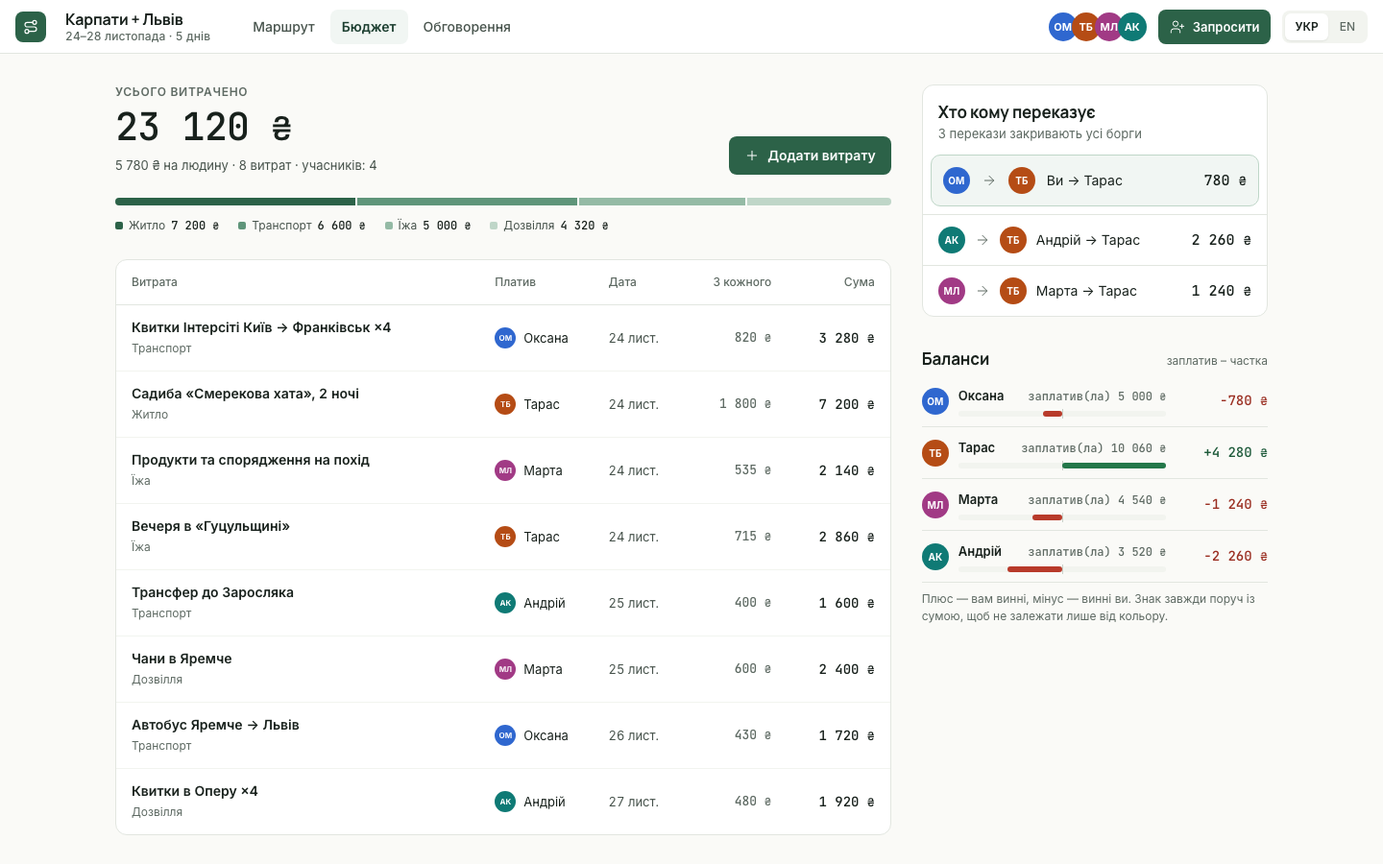
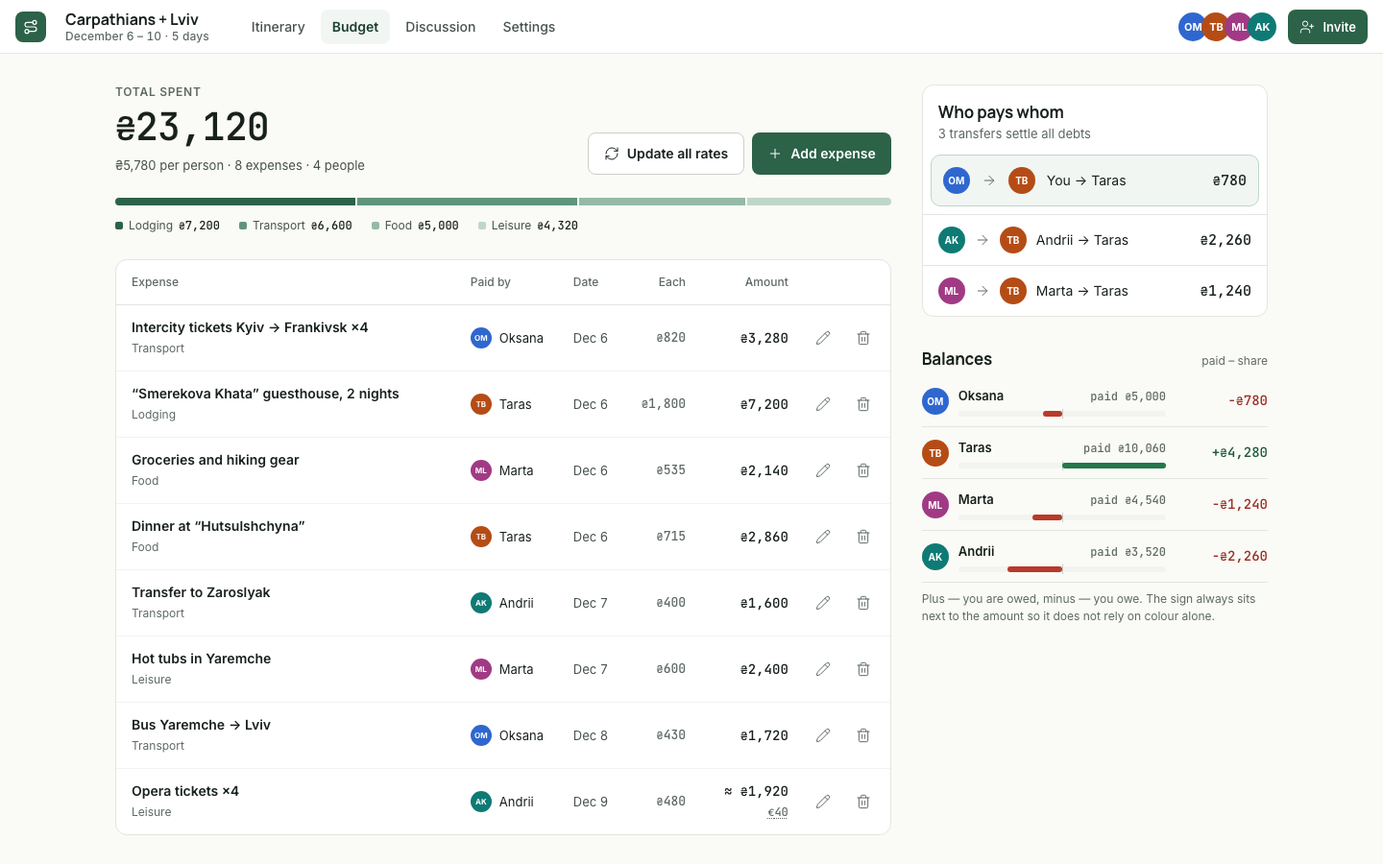
Refresh README and retake screenshots in English
Add a --lang en variant of the demo seed ("Carpathians + Lviv", one
expense paid in euros) and switch the screenshot spec to the /en routes.
README now covers multi-currency, trip settings, covers, the landing
page and the new decisions; screenshots are regenerated.

diff --git a/packages/db/prisma/seed.ts b/packages/db/prisma/seed.ts
@@ -4,70 +4,82 @@
 //   pnpm db:seed                          demo people only
 //   SEED_OWNER_EMAIL=you@gmail.com pnpm db:seed   you own the demo trip (sign in with Google once first)
 //   pnpm db:seed -- --reset               delete the demo trip and create it again
+//   pnpm db:seed -- --reset --lang en     same trip with English content ("Carpathians + Lviv")
 import { addItem, readDays, syncDays } from "@triptogether/doc";
 import { splitEqual } from "@triptogether/shared";
 import * as Y from "yjs";
 import { createPrisma } from "../src/index.js";
 
 const prisma = createPrisma();
-const TITLE = "Карпати + Львів";
+const langArg = process.argv.indexOf("--lang");
+const EN = process.argv.includes("--lang=en") || (langArg >= 0 && process.argv[langArg + 1] === "en");
+const LANG = EN ? "en" : "uk";
+// Pick the Ukrainian or English text; amounts, times and coordinates are shared so the numbers match DESIGN §7.8.
+const t = (uk: string, en: string) => (EN ? en : uk);
+const TITLES = ["Карпати + Львів", "Carpathians + Lviv"];
+const TITLE = t(TITLES[0]!, TITLES[1]!);
 const DAY = 86_400_000;
 const iso = (t: number) => new Date(t).toISOString().slice(0, 10);
 
 const demo = [
-  { googleId: "seed-oksana", name: "Оксана Мельник", email: "oksana.melnyk@gmail.com", role: "OWNER" },
-  { googleId: "seed-taras", name: "Тарас Бойко", email: "taras.boiko@gmail.com", role: "EDITOR" },
-  { googleId: "seed-marta", name: "Марта Левицька", email: "marta.levytska@gmail.com", role: "EDITOR" },
-  { googleId: "seed-andrii", name: "Андрій Ковальчук", email: "andrii.kovalchuk@gmail.com", role: "VIEWER" },
+  { googleId: "seed-oksana", name: t("Оксана Мельник", "Oksana Melnyk"), email: "oksana.melnyk@gmail.com", role: "OWNER" },
+  { googleId: "seed-taras", name: t("Тарас Бойко", "Taras Boiko"), email: "taras.boiko@gmail.com", role: "EDITOR" },
+  { googleId: "seed-marta", name: t("Марта Левицька", "Marta Levytska"), email: "marta.levytska@gmail.com", role: "EDITOR" },
+  { googleId: "seed-andrii", name: t("Андрій Ковальчук", "Andrii Kovalchuk"), email: "andrii.kovalchuk@gmail.com", role: "VIEWER" },
 ] as const;
 
 // Real coordinates, so the map has something to show.
 const PLACES: Record<string, { name: string; address: string; lat: number; lng: number }> = {
-  kyiv: { name: "Київ-Пасажирський", address: "Київ", lat: 50.4408, lng: 30.4885 },
-  frankivsk: { name: "Івано-Франківськ", address: "Івано-Франківськ", lat: 48.9226, lng: 24.7111 },
-  yaremche: { name: "Яремче", address: "Яремче, Івано-Франківська область", lat: 48.4547, lng: 24.5696 },
-  chany: { name: "Чани в Яремче", address: "Яремче", lat: 48.4472, lng: 24.5547 },
-  zaroslyak: { name: "Заросляк", address: "Ворохта, Говерла", lat: 48.1636, lng: 24.5462 },
-  hoverla: { name: "Говерла", address: "Рахівський район", lat: 48.1601, lng: 24.5003 },
-  vorokhta: { name: "Віадук у Ворохті", address: "Ворохта", lat: 48.2822, lng: 24.5547 },
-  bukovel: { name: "Озеро Молодості", address: "Буковель", lat: 48.3607, lng: 24.4043 },
-  rynok: { name: "Площа Ринок", address: "Львів, центр", lat: 49.8419, lng: 24.0315 },
-  castle: { name: "Високий Замок", address: "Львів", lat: 49.8486, lng: 24.0391 },
-  opera: { name: "Львівська опера", address: "Львів, проспект Свободи", lat: 49.8441, lng: 24.0261 },
+  kyiv: { name: t("Київ-Пасажирський", "Kyiv Passenger station"), address: t("Київ", "Kyiv"), lat: 50.4408, lng: 30.4885 },
+  frankivsk: { name: t("Івано-Франківськ", "Ivano-Frankivsk"), address: t("Івано-Франківськ", "Ivano-Frankivsk"), lat: 48.9226, lng: 24.7111 },
+  yaremche: { name: t("Яремче", "Yaremche"), address: t("Яремче, Івано-Франківська область", "Yaremche, Ivano-Frankivsk Oblast"), lat: 48.4547, lng: 24.5696 },
+  chany: { name: t("Чани в Яремче", "Hot tubs in Yaremche"), address: t("Яремче", "Yaremche"), lat: 48.4472, lng: 24.5547 },
+  zaroslyak: { name: t("Заросляк", "Zaroslyak"), address: t("Ворохта, Говерла", "Vorokhta, Hoverla trailhead"), lat: 48.1636, lng: 24.5462 },
+  hoverla: { name: t("Говерла", "Hoverla"), address: t("Рахівський район", "Rakhiv district"), lat: 48.1601, lng: 24.5003 },
+  vorokhta: { name: t("Віадук у Ворохті", "Vorokhta viaduct"), address: t("Ворохта", "Vorokhta"), lat: 48.2822, lng: 24.5547 },
+  bukovel: { name: t("Озеро Молодості", "Youth Lake"), address: t("Буковель", "Bukovel"), lat: 48.3607, lng: 24.4043 },
+  rynok: { name: t("Площа Ринок", "Rynok Square"), address: t("Львів, центр", "Lviv, city centre"), lat: 49.8419, lng: 24.0315 },
+  castle: { name: t("Високий Замок", "High Castle"), address: t("Львів", "Lviv"), lat: 49.8486, lng: 24.0391 },
+  opera: { name: t("Львівська опера", "Lviv Opera"), address: t("Львів, проспект Свободи", "Lviv, Svobody Avenue"), lat: 49.8441, lng: 24.0261 },
 };
+
+const HOVERLA_STOP = t("Сходження на Говерлу", "Hoverla ascent");
 
 // [day index, place key | null, title, time]
 const STOPS: [number, string | null, string, string | null][] = [
-  [0, "kyiv", "Потяг Київ → Івано-Франківськ", "06:10"],
-  [0, "frankivsk", "Пересадка в Івано-Франківську", "11:30"],
-  [0, "yaremche", "Автобус до Яремче", "13:00"],
-  [0, "yaremche", "Заселення в садибу «Смерекова хата»", "15:00"],
-  [0, "yaremche", "Вечеря в «Гуцульщині»", "19:30"],
-  [1, "zaroslyak", "Трансфер до Заросляка", "06:30"],
-  [1, "hoverla", "Сходження на Говерлу", "08:00"],
-  [1, "zaroslyak", "Обід у колибі біля Заросляка", "15:00"],
-  [1, "chany", "Чани в Яремче", "19:00"],
-  [2, "vorokhta", "Віадук у Ворохті", "10:00"],
-  [2, "bukovel", "Озеро Молодості", "13:00"],
-  [2, "yaremche", "Автобус Яремче → Львів", "17:00"],
-  [3, "rynok", "Площа Ринок", null],
-  [3, "castle", "Високий Замок", null],
-  [3, "opera", "Опера", "19:00"],
-  [3, "rynok", "Кава на Ринку", null],
-  [4, null, "Потяг Львів → Київ", "16:24"],
+  [0, "kyiv", t("Потяг Київ → Івано-Франківськ", "Train Kyiv → Ivano-Frankivsk"), "06:10"],
+  [0, "frankivsk", t("Пересадка в Івано-Франківську", "Change at Ivano-Frankivsk"), "11:30"],
+  [0, "yaremche", t("Автобус до Яремче", "Bus to Yaremche"), "13:00"],
+  [0, "yaremche", t("Заселення в садибу «Смерекова хата»", "Check in at the “Smerekova Khata” guesthouse"), "15:00"],
+  [0, "yaremche", t("Вечеря в «Гуцульщині»", "Dinner at “Hutsulshchyna”"), "19:30"],
+  [1, "zaroslyak", t("Трансфер до Заросляка", "Transfer to Zaroslyak"), "06:30"],
+  [1, "hoverla", HOVERLA_STOP, "08:00"],
+  [1, "zaroslyak", t("Обід у колибі біля Заросляка", "Lunch at a mountain hut near Zaroslyak"), "15:00"],
+  [1, "chany", t("Чани в Яремче", "Hot tubs in Yaremche"), "19:00"],
+  [2, "vorokhta", t("Віадук у Ворохті", "Vorokhta viaduct"), "10:00"],
+  [2, "bukovel", t("Озеро Молодості", "Youth Lake"), "13:00"],
+  [2, "yaremche", t("Автобус Яремче → Львів", "Bus Yaremche → Lviv"), "17:00"],
+  [3, "rynok", t("Площа Ринок", "Rynok Square"), null],
+  [3, "castle", t("Високий Замок", "High Castle"), null],
+  [3, "opera", t("Опера", "Opera"), "19:00"],
+  [3, "rynok", t("Кава на Ринку", "Coffee on Rynok"), null],
+  [4, null, t("Потяг Львів → Київ", "Train Lviv → Kyiv"), "16:24"],
 ];
 
-// [title, category, UAH, payer index, day offset]
-const EXPENSES: [string, string, number, number, number][] = [
-  ["Квитки Інтерсіті Київ → Франківськ ×4", "TRANSPORT", 3280, 0, 0],
-  ["Садиба «Смерекова хата», 2 ночі", "LODGING", 7200, 1, 0],
-  ["Продукти та спорядження на похід", "FOOD", 2140, 2, 0],
-  ["Вечеря в «Гуцульщині»", "FOOD", 2860, 1, 0],
-  ["Трансфер до Заросляка", "TRANSPORT", 1600, 3, 1],
-  ["Чани в Яремче", "LEISURE", 2400, 2, 1],
-  ["Автобус Яремче → Львів", "TRANSPORT", 1720, 0, 2],
-  ["Квитки в Оперу ×4", "LEISURE", 1920, 3, 3],
+// [title, category, UAH, payer index, day offset, EUR minor units when paid in euros]
+const EXPENSES: [string, string, number, number, number, number?][] = [
+  [t("Квитки Інтерсіті Київ → Франківськ ×4", "Intercity tickets Kyiv → Frankivsk ×4"), "TRANSPORT", 3280, 0, 0],
+  [t("Садиба «Смерекова хата», 2 ночі", "“Smerekova Khata” guesthouse, 2 nights"), "LODGING", 7200, 1, 0],
+  [t("Продукти та спорядження на похід", "Groceries and hiking gear"), "FOOD", 2140, 2, 0],
+  [t("Вечеря в «Гуцульщині»", "Dinner at “Hutsulshchyna”"), "FOOD", 2860, 1, 0],
+  [t("Трансфер до Заросляка", "Transfer to Zaroslyak"), "TRANSPORT", 1600, 3, 1],
+  [t("Чани в Яремче", "Hot tubs in Yaremche"), "LEISURE", 2400, 2, 1],
+  [t("Автобус Яремче → Львів", "Bus Yaremche → Lviv"), "TRANSPORT", 1720, 0, 2],
+  // Paid in euros at a fixed rate of 48, so the UAH total stays 1 920 and the budget shows a multi-currency row.
+  [t("Квитки в Оперу ×4", "Opera tickets ×4"), "LEISURE", 1920, 3, 3, 4000],
 ];
+
+const POLL_OPTIONS = [t("Апартаменти на Підвальній", "Apartment on Pidvalna"), t("Готель біля Опери", "Hotel near the Opera"), t("Хостел на Вірменській", "Hostel on Virmenska")] as const;
 
 async function main() {
   const ownerEmail = process.env.SEED_OWNER_EMAIL;
@@ -78,14 +90,16 @@ async function main() {
     demo.map((p, i) =>
       i === 0 && realOwner
         ? realOwner
-        : prisma.user.upsert({ where: { googleId: p.googleId }, create: { googleId: p.googleId, name: p.name, email: p.email }, update: {} }),
+        : prisma.user.upsert({ where: { googleId: p.googleId }, create: { googleId: p.googleId, name: p.name, email: p.email }, update: { name: p.name } }),
     ),
   );
   const owner = users[0]!;
 
-  const existing = await prisma.trip.findFirst({ where: { createdById: owner.id, title: TITLE } });
-  if (existing && process.argv.includes("--reset")) await prisma.trip.delete({ where: { id: existing.id } });
-  else if (existing) return console.log(`Demo trip already exists (${existing.id}). Use --reset to recreate it.`);
+  if (process.argv.includes("--reset")) await prisma.trip.deleteMany({ where: { createdById: owner.id, title: { in: TITLES } } });
+  else {
+    const existing = await prisma.trip.findFirst({ where: { createdById: owner.id, title: TITLE } });
+    if (existing) return console.log(`Demo trip already exists (${existing.id}). Use --reset to recreate it.`);
+  }
 
   // A planned trip: starts in three weeks, five days long.
   const start = Date.parse(iso(Date.now() + 21 * DAY));
@@ -93,7 +107,7 @@ async function main() {
   const trip = await prisma.trip.create({
     data: {
       title: TITLE,
-      destinations: { create: ["Яремче", "Говерла", "Ворохта", "Львів"].map((name, order) => ({ order, name })) },
+      destinations: { create: [t("Яремче", "Yaremche"), t("Говерла", "Hoverla"), t("Ворохта", "Vorokhta"), t("Львів", "Lviv")].map((name, order) => ({ order, name })) },
       startDate: new Date(start),
       endDate: new Date(end),
       currency: "UAH",
@@ -108,7 +122,7 @@ async function main() {
     const row = await prisma.place.upsert({
       where: { provider_externalId: { provider: "seed", externalId: key } },
       create: { provider: "seed", externalId: key, ...p },
-      update: {},
+      update: p,
     });
     placeIds[key] = row.id;
   }
@@ -132,7 +146,7 @@ async function main() {
 
   // Expenses, split equally between everyone
   const ids = users.map((u) => u.id);
-  for (const [title, category, uah, payer, offset] of EXPENSES) {
+  for (const [title, category, uah, payer, offset, eur] of EXPENSES) {
     const amountMinor = uah * 100;
     await prisma.expense.create({
       data: {
@@ -140,6 +154,7 @@ async function main() {
         title,
         category: category as "TRANSPORT",
         amountMinor,
+        ...(eur ? { originalCurrency: "EUR", originalAmountMinor: eur, rate: String(amountMinor / eur), rateDate: new Date(iso(Date.now())) } : {}),
         paidById: ids[payer]!,
         splitType: "EQUAL",
         spentAt: new Date(start + offset * DAY),
@@ -152,31 +167,32 @@ async function main() {
   // Chat, a poll with votes, and comments on the Hoverla stop
   const at = (minutesAgo: number) => new Date(Date.now() - minutesAgo * 60_000);
   const say = (who: number, body: string, minutesAgo: number, itemId?: string) => prisma.message.create({ data: { tripId: trip.id, authorId: ids[who]!, body, itemId: itemId ?? null, createdAt: at(minutesAgo) } });
-  await say(1, "Вніс у бюджет садибу в Яремчі — 7 200 за дві ночі, сніданки включені.", 130);
-  await say(0, "Дякую! А для Львова давайте проголосуємо — у мене вже 12 вкладок із житлом.", 127);
+  await say(1, t("Вніс у бюджет садибу в Яремчі — 7 200 за дві ночі, сніданки включені.", "Added the Yaremche guesthouse to the budget — 7,200 for two nights, breakfasts included."), 130);
+  await say(0, t("Дякую! А для Львова давайте проголосуємо — у мене вже 12 вкладок із житлом.", "Thanks! For Lviv let’s vote — I already have 12 tabs open with places to stay."), 127);
+  const question = t("Де ночуємо у Львові?", "Where do we stay in Lviv?");
   const poll = await prisma.poll.create({
     data: {
       tripId: trip.id,
-      question: "Де ночуємо у Львові?",
+      question,
       closesAt: new Date(Date.now() + 7 * DAY),
       createdById: ids[0]!,
-      options: { create: ["Апартаменти на Підвальній", "Готель біля Опери", "Хостел на Вірменській"].map((label) => ({ label })) },
-      message: { create: { tripId: trip.id, authorId: ids[0]!, body: "Де ночуємо у Львові?", createdAt: at(126) } },
+      options: { create: POLL_OPTIONS.map((label) => ({ label })) },
+      message: { create: { tripId: trip.id, authorId: ids[0]!, body: question, createdAt: at(126) } },
     },
     include: { options: { orderBy: { id: "asc" } } },
   });
-  const byLabel = (l: string) => poll.options.find((o) => o.label.startsWith(l))!.id;
-  await prisma.vote.createMany({ data: [{ optionId: byLabel("Апартаменти"), userId: ids[0]! }, { optionId: byLabel("Апартаменти"), userId: ids[2]! }, { optionId: byLabel("Готель"), userId: ids[1]! }] });
-  await say(2, "Підвальна — п’ять хвилин до Ринку, і там є пральна машина. Після гір саме те.", 110);
-  await say(3, "Буду ввечері, гляну все разом.", 60);
+  const option = (n: number) => poll.options.find((o) => o.label === POLL_OPTIONS[n])!.id;
+  await prisma.vote.createMany({ data: [{ optionId: option(0), userId: ids[0]! }, { optionId: option(0), userId: ids[2]! }, { optionId: option(1), userId: ids[1]! }] });
+  await say(2, t("Підвальна — п’ять хвилин до Ринку, і там є пральна машина. Після гір саме те.", "Pidvalna is five minutes from Rynok and has a washing machine. Just what we need after the mountains."), 110);
+  await say(3, t("Буду ввечері, гляну все разом.", "I’ll be on in the evening, will look at everything then."), 60);
 
-  const hoverla = snapshot[1]!.items.find((i) => i.title.startsWith("Сходження"))!.id;
-  await say(3, "Може, вийти раніше, ніж о 08:00? Після обіду на Чорногорі часто гроза.", 2880, hoverla);
-  await say(1, "Згоден. Трансфер можу перенести на 05:45, водій не проти.", 2860, hoverla);
-  await say(2, "Тоді сніданок беремо з собою — у садибі дадуть ланчбокси, я вже спитала.", 1500, hoverla);
-  await say(0, "Добре, ставимо вихід о 06:30. Тарасе, онови, будь ласка, час у маршруті.", 40, hoverla);
+  const hoverla = snapshot[1]!.items.find((i) => i.title === HOVERLA_STOP)!.id;
+  await say(3, t("Може, вийти раніше, ніж о 08:00? Після обіду на Чорногорі часто гроза.", "Maybe start earlier than 08:00? Afternoon thunderstorms on Chornohora are common."), 2880, hoverla);
+  await say(1, t("Згоден. Трансфер можу перенести на 05:45, водій не проти.", "Agreed. I can move the transfer to 05:45, the driver doesn’t mind."), 2860, hoverla);
+  await say(2, t("Тоді сніданок беремо з собою — у садибі дадуть ланчбокси, я вже спитала.", "Then we take breakfast with us — the guesthouse will give us lunch boxes, I already asked."), 1500, hoverla);
+  await say(0, t("Добре, ставимо вихід о 06:30. Тарасе, онови, будь ласка, час у маршруті.", "Good, we set the start at 06:30. Taras, please update the time in the itinerary."), 40, hoverla);
 
-  console.log(`Demo trip created: /uk/trips/${trip.id}`);
+  console.log(`Demo trip created: /${LANG}/trips/${trip.id}`);
 }
 
 main()

diff --git a/e2e/tests/readme-screenshots.spec.ts b/e2e/tests/readme-screenshots.spec.ts
@@ -10,42 +10,46 @@ const OUT = "../docs/screenshots";
 const EMAIL = "demo-owner@e2e.test";
 
 test("README screenshots", async ({ browser }) => {
-  const desktop = await browser.newContext({ locale: "uk-UA", colorScheme: "light", viewport: { width: 1440, height: 900 } });
-  expect((await desktop.request.post("/api/v1/auth/e2e-login", { data: { email: EMAIL, name: "Оксана Мельник" } })).status()).toBe(204);
+  const desktop = await browser.newContext({ locale: "en-US", colorScheme: "light", viewport: { width: 1440, height: 900 } });
+  expect((await desktop.request.post("/api/v1/auth/e2e-login", { data: { email: EMAIL, name: "Oksana Melnyk" } })).status()).toBe(204);
   // The signed-in test user becomes the owner of the demo trip.
-  execSync("pnpm --filter @triptogether/db exec tsx prisma/seed.ts --reset", { stdio: "inherit", env: { ...process.env, DATABASE_URL, SEED_OWNER_EMAIL: EMAIL } });
+  execSync("pnpm --filter @triptogether/db exec tsx prisma/seed.ts --reset --lang en", { stdio: "inherit", env: { ...process.env, DATABASE_URL, SEED_OWNER_EMAIL: EMAIL } });
 
   const trips = (await (await desktop.request.get("/api/v1/trips")).json()) as { id: string; title: string }[];
-  const tripId = trips.find((t) => t.title === "Карпати + Львів")!.id;
+  const tripId = trips.find((t) => t.title === "Carpathians + Lviv")!.id;
+  // Seeding bypasses the API, so ask it to fetch the Wikipedia covers for the destination chips.
+  expect((await desktop.request.patch(`/api/v1/trips/${tripId}`, { data: { destinations: ["Yaremche", "Hoverla", "Vorokhta", "Lviv"].map((name) => ({ name })) } })).ok()).toBe(true);
+  await new Promise((r) => setTimeout(r, 6000));
   const threads = (await (await desktop.request.get(`/api/v1/trips/${tripId}/threads`)).json()) as { id: string; title: string }[];
-  const hoverla = threads.find((t) => t.title.startsWith("Сходження"))!.id;
+  const hoverla = threads.find((t) => t.title.startsWith("Hoverla ascent"))!.id;
 
   const page = await desktop.newPage();
-  await page.goto("/uk/trips");
-  await expect(page.getByRole("heading", { name: "Мої поїздки" })).toBeVisible();
+  await page.goto("/en/trips");
+  await expect(page.getByRole("heading", { name: "My trips" })).toBeVisible();
+  await page.waitForTimeout(2500); // cover images
   await page.screenshot({ path: `${OUT}/trips.png` });
 
-  await page.goto(`/uk/trips/${tripId}`);
+  await page.goto(`/en/trips/${tripId}`);
   await expect(page.getByTestId("map-pin").first()).toBeVisible();
   await page.waitForTimeout(3500); // map tiles
   await page.screenshot({ path: `${OUT}/itinerary.png` });
 
-  await page.goto(`/uk/trips/${tripId}/budget`);
-  await expect(page.getByRole("cell", { name: /^Чани/ })).toBeVisible();
+  await page.goto(`/en/trips/${tripId}/budget`);
+  await expect(page.getByRole("cell", { name: /^Hot tubs/ })).toBeVisible();
   await page.screenshot({ path: `${OUT}/budget.png` });
 
-  await page.goto(`/uk/trips/${tripId}/discussion?thread=${hoverla}`);
-  await expect(page.getByText("Добре, ставимо вихід")).toBeVisible();
+  await page.goto(`/en/trips/${tripId}/discussion?thread=${hoverla}`);
+  await expect(page.getByText("Good, we set the start")).toBeVisible();
   await page.waitForTimeout(600);
   await page.screenshot({ path: `${OUT}/discussion.png` });
 
-  const mobile = await browser.newContext({ locale: "uk-UA", colorScheme: "light", viewport: { width: 390, height: 844 }, deviceScaleFactor: 2, isMobile: true, hasTouch: true });
-  await mobile.request.post("/api/v1/auth/e2e-login", { data: { email: EMAIL, name: "Оксана Мельник" } });
+  const mobile = await browser.newContext({ locale: "en-US", colorScheme: "light", viewport: { width: 390, height: 844 }, deviceScaleFactor: 2, isMobile: true, hasTouch: true });
+  await mobile.request.post("/api/v1/auth/e2e-login", { data: { email: EMAIL, name: "Oksana Melnyk" } });
   const m = await mobile.newPage();
-  await m.goto(`/uk/trips/${tripId}`);
-  await expect(m.getByRole("heading", { name: "День 2" })).toBeVisible();
+  await m.goto(`/en/trips/${tripId}`);
+  await expect(m.getByRole("heading", { name: "Day 2" })).toBeVisible();
   await m.screenshot({ path: `${OUT}/mobile-itinerary.png` });
-  await m.getByRole("navigation", { name: "Розділи поїздки" }).getByRole("link", { name: "Карта" }).click();
+  await m.getByRole("navigation", { name: "Trip sections" }).getByRole("link", { name: "Map" }).click();
   await expect(m.getByTestId("map-pin").first()).toBeVisible();
   await m.getByTestId("map-pin").nth(6).dispatchEvent("click");
   await m.waitForTimeout(3500);

diff --git a/README.md b/README.md
@@ -1,16 +1,16 @@
 # TripTogether
 
-Plan a trip with friends in one place: a day-by-day itinerary that everyone edits at the same time, a map, shared expenses with "who pays whom", polls and chat. Ukrainian and English, invite-only, Google sign-in.
+Plan a trip with friends in one place: a day-by-day itinerary that everyone edits at the same time, a map, shared expenses in any of 20 currencies with "who pays whom", polls and chat. Ukrainian and English, invite-only, Google sign-in.
 
 A portfolio project. The focus is real-time engineering (CRDT editing, WebSockets, cookie sessions across services) with a moderate amount of code, and a UI that follows a written design system.
 
 | Itinerary and map | Budget |
 | --- | --- |
-| ![Itinerary with day-coloured pins and routes](docs/screenshots/itinerary.png) | ![Expenses, settlements and balances](docs/screenshots/budget.png) |
+| ![Itinerary list next to a map with day-coloured pins and routes](docs/screenshots/itinerary.png) | ![Expenses in several currencies, settlements and balances](docs/screenshots/budget.png) |
 
 | Chat, polls and stop comments | My trips |
 | --- | --- |
-| ![Discussion with a poll and a stop thread](docs/screenshots/discussion.png) | ![Trip cards](docs/screenshots/trips.png) |
+| ![Chat with a poll and a stop comment thread](docs/screenshots/discussion.png) | ![Trip cards with destination chips and Wikipedia covers](docs/screenshots/trips.png) |
 
 | Phone: itinerary | Phone: map |
 | --- | --- |
@@ -18,11 +18,12 @@ A portfolio project. The focus is real-time engineering (CRDT editing, WebSocket
 
 ## Features
 
-- **Trips and members.** Create a trip, share an invite link (hashed token, expiry, revocable), set roles (owner / editor / viewer), remove members.
+- **Trips and members.** Create a trip with destination chips (cards get cover photos from Wikipedia), share an invite link (hashed token, expiry, revocable), set roles (owner / editor / viewer), remove members. Trip settings edit the title, destinations and dates; deleting a trip is a soft delete.
 - **Itinerary.** Days are generated from the trip dates. Add, rename, time, delete and drag stops between days (mouse, touch or keyboard). Several people edit at once; avatars show who is online and an "X is editing" tag marks the stop they are in.
 - **Map.** MapLibre with MapTiler tiles. Numbered pins in day colours, dashed routes, a day filter, place search (Geoapify), and list-to-map selection sync. Full-screen map with a stop sheet on phones.
-- **Budget.** Expenses with equal or exact splits, category bar, balances and the shortest list of transfers. Integer minor units everywhere, no floats.
+- **Budget.** Expenses with equal or exact splits, category bar, balances and the shortest list of transfers. Each trip settles in one currency, but an expense can be paid in any of 20: the rate is pre-filled from a public currency API, editable, and locked on save; the owner can refresh rates in bulk. Updates arrive live over Socket.IO. Integer minor units everywhere, no floats.
 - **Discussion.** Trip chat with history paging and typing indicator, polls with live vote counts (single or multiple choice, optional close date), per-stop comment threads that can be marked resolved.
+- **Landing page, themes, language.** A public landing page with an animated demo of live editing, light / dark / system theme and a Ukrainian / English switch.
 - **Accessibility and i18n.** Real buttons and tables, keyboard drag-and-drop, visible focus, text never relies on colour alone. `uk` and `en` with identical key sets checked in CI.
 
 ## Architecture
@@ -36,12 +37,15 @@ flowchart LR
   C -- "Yjs state + SQL snapshot" --> PG
   A -. "Socket.IO adapter" .-> R[(Redis)]
   A --> G[Geoapify<br/>place search]
+  A --> X[currency-api<br/>exchange rates]
+  A --> W[Wikipedia<br/>destination covers]
   B --> M[MapTiler<br/>map tiles]
 ```
 
 - **The itinerary is a Yjs document** (`trip:{id}`), edited through `packages/doc`, the only place that mutates it. The collab server stores the binary state and rebuilds the `Day` / `ItineraryItem` SQL snapshot after every change (debounced 2 s), so the map, search and API can read plain rows.
 - **Everything else is REST plus a broadcast.** Chat, polls and budget need server-side validation, so the client writes over REST and the server emits the result to the trip room on Socket.IO.
 - **One session for three services.** NestJS issues the cookies (15-minute access JWT, rotating refresh token with reuse detection). Socket.IO reads the cookie at connect and re-checks membership on `trip:join`. Collab takes a short-lived token from `POST /collab/token` and re-reads the role from the database on every connection, so removing a member takes effect on their next connect.
+- **Money in one currency.** Every expense is converted server-side to the trip currency with the rate stored on the expense, so balances never change when rates move afterwards.
 - **Roles are one service.** `MembershipService` is used by the REST guard, the Socket.IO gateway and the collab server.
 - **Shared contracts.** `packages/shared` holds the zod schemas, error codes, event types and the money logic; the API returns error codes, the web app translates them.
 
@@ -68,7 +72,7 @@ pnpm install
 cp .env.example .env          # then fill in the values below
 docker compose up -d          # PostgreSQL 18 + Redis 8
 pnpm db:migrate               # apply migrations
-pnpm db:seed                  # demo trip "Карпати + Львів"
+pnpm db:seed                  # demo trip "Карпати + Львів" (add -- --lang en for "Carpathians + Lviv")
 pnpm build                    # builds the packages the apps depend on
 
 pnpm --filter @triptogether/api dev
@@ -88,19 +92,20 @@ pnpm --filter @triptogether/web dev      # http://localhost:3000
 
 ### Demo data
 
-`pnpm db:seed` creates four demo people and a five-day trip with 17 stops (real coordinates), eight expenses, a poll with votes, chat and comments on a stop. Those demo users cannot sign in. To own the demo trip yourself, sign in with Google once, then:
+`pnpm db:seed` creates four demo people and a five-day trip with 17 stops (real coordinates), eight expenses (one paid in euros), a poll with votes, chat and comments on a stop. The content is Ukrainian by default; `--lang en` gives the English version used in the screenshots. Those demo users cannot sign in. To own the demo trip yourself, sign in with Google once, then:
 
 ```bash
-SEED_OWNER_EMAIL=you@example.com pnpm db:seed -- --reset
+SEED_OWNER_EMAIL=you@example.com pnpm db:seed -- --reset            # or add --lang en
 ```
 
 ## Tests
 
 ```bash
 pnpm typecheck
+pnpm lint
 pnpm test                                  # unit tests: money, splits, roles, invites, polls, auth, Yjs document
 pnpm --filter @triptogether/e2e e2e        # Playwright: starts its own API, collab and web on other ports
-pnpm --filter @triptogether/e2e screenshots   # regenerates docs/screenshots from the demo seed
+pnpm --filter @triptogether/e2e screenshots   # regenerates docs/screenshots (English UI and English demo seed)
 ```
 
 First e2e run: `pnpm --filter @triptogether/e2e exec playwright install chromium` and create the database once: `docker compose exec postgres createdb -U triptogether triptogether_e2e`.
@@ -113,6 +118,7 @@ The e2e suite signs in through `POST /auth/e2e-login`, which exists only when `E
 - **The Yjs doc is the source of truth, SQL is a rebuildable view.** The snapshot is deleted and rewritten in one transaction on every store, so it cannot drift.
 - **Non-members get 404, not 403,** for trips, messages and polls, so ids cannot be probed.
 - **Refresh cookie is scoped to `/api/v1/auth`,** so the Next.js server cannot see it. The landing page and the socket therefore try the refresh from the browser.
+- **Outside calls are rate limited per user** (place search, exchange rates), and the Google callback checks an OAuth `state` nonce.
 - **maplibre's worker is served from `public/maplibre`.** The bundler rewrites its worker URL and breaks it; `scripts/copy-maplibre.mjs` copies the files before dev and build.
 
 ## Known limits
@@ -120,6 +126,7 @@ The e2e suite signs in through `POST /auth/e2e-login`, which exists only when `E
 - Live mouse cursors are not built; presence is avatars plus the editing tag.
 - No bookings, ticket import, offline mode, push notifications, PDF or calendar export (out of the MVP, see `docs/SPEC.md`).
 - Expenses assume two decimal places, which is right for ₴, €, $ and zł but not for currencies like JPY.
+- Settlements cannot be marked as paid.
 - Chat has no @mentions, unread badges, or message edit and delete.
 - Not deployed yet. The SPEC plans Vercel (web), Railway or Fly (api, collab), Neon, Upstash and a shared parent domain for cookies.
 - Dark mode follows the OS and the tokens are in place, but no screen was designed for it and it has only been spot-checked.
